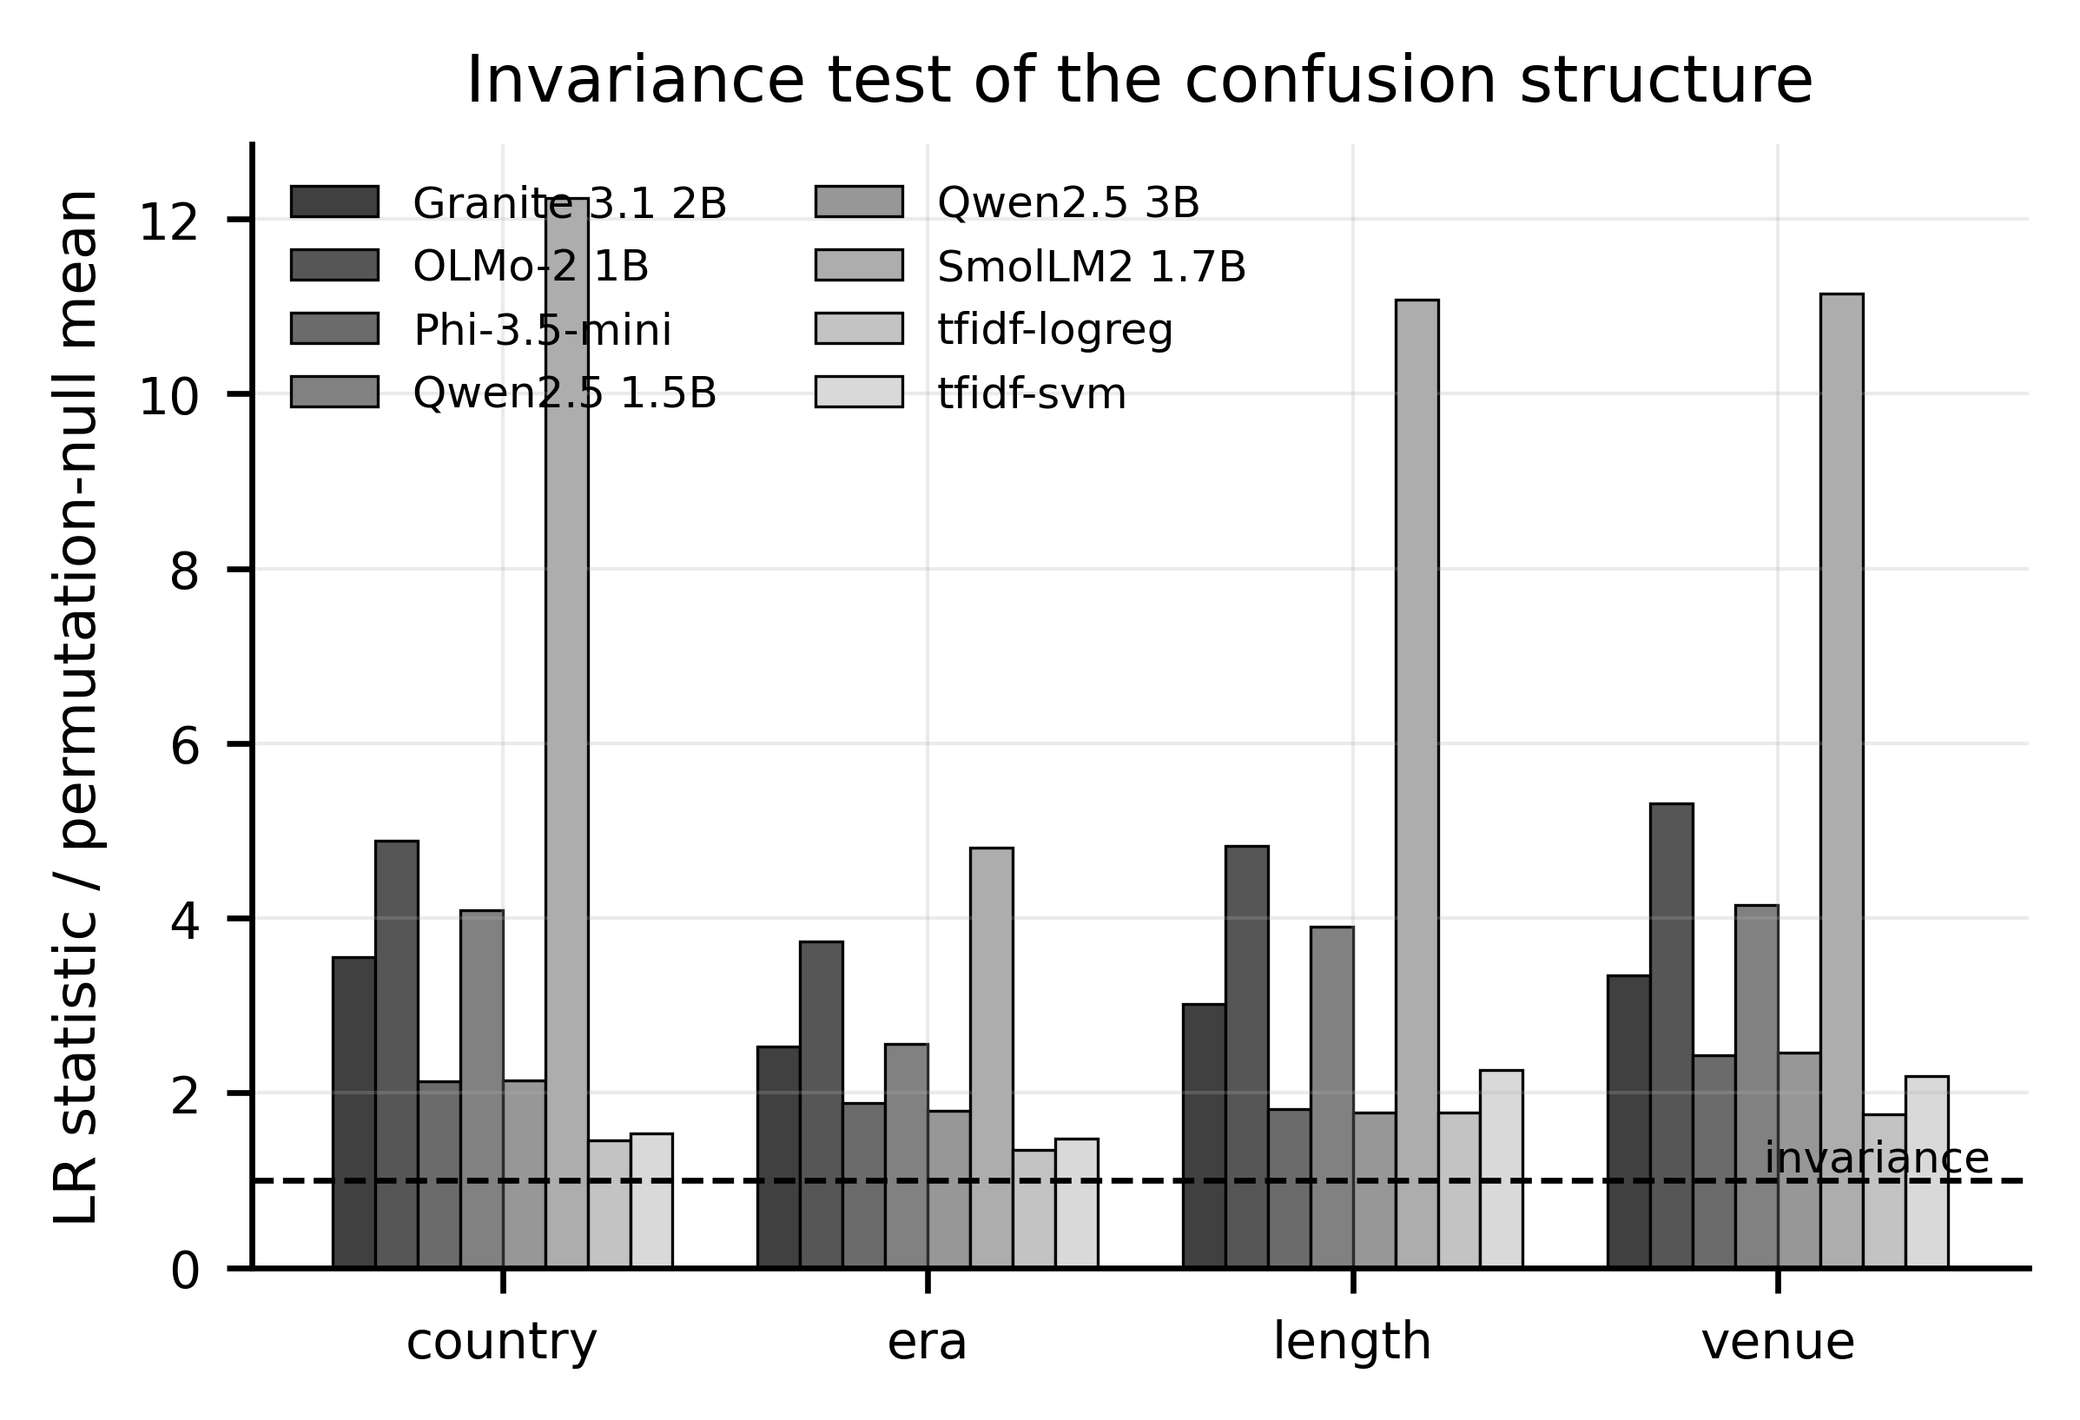
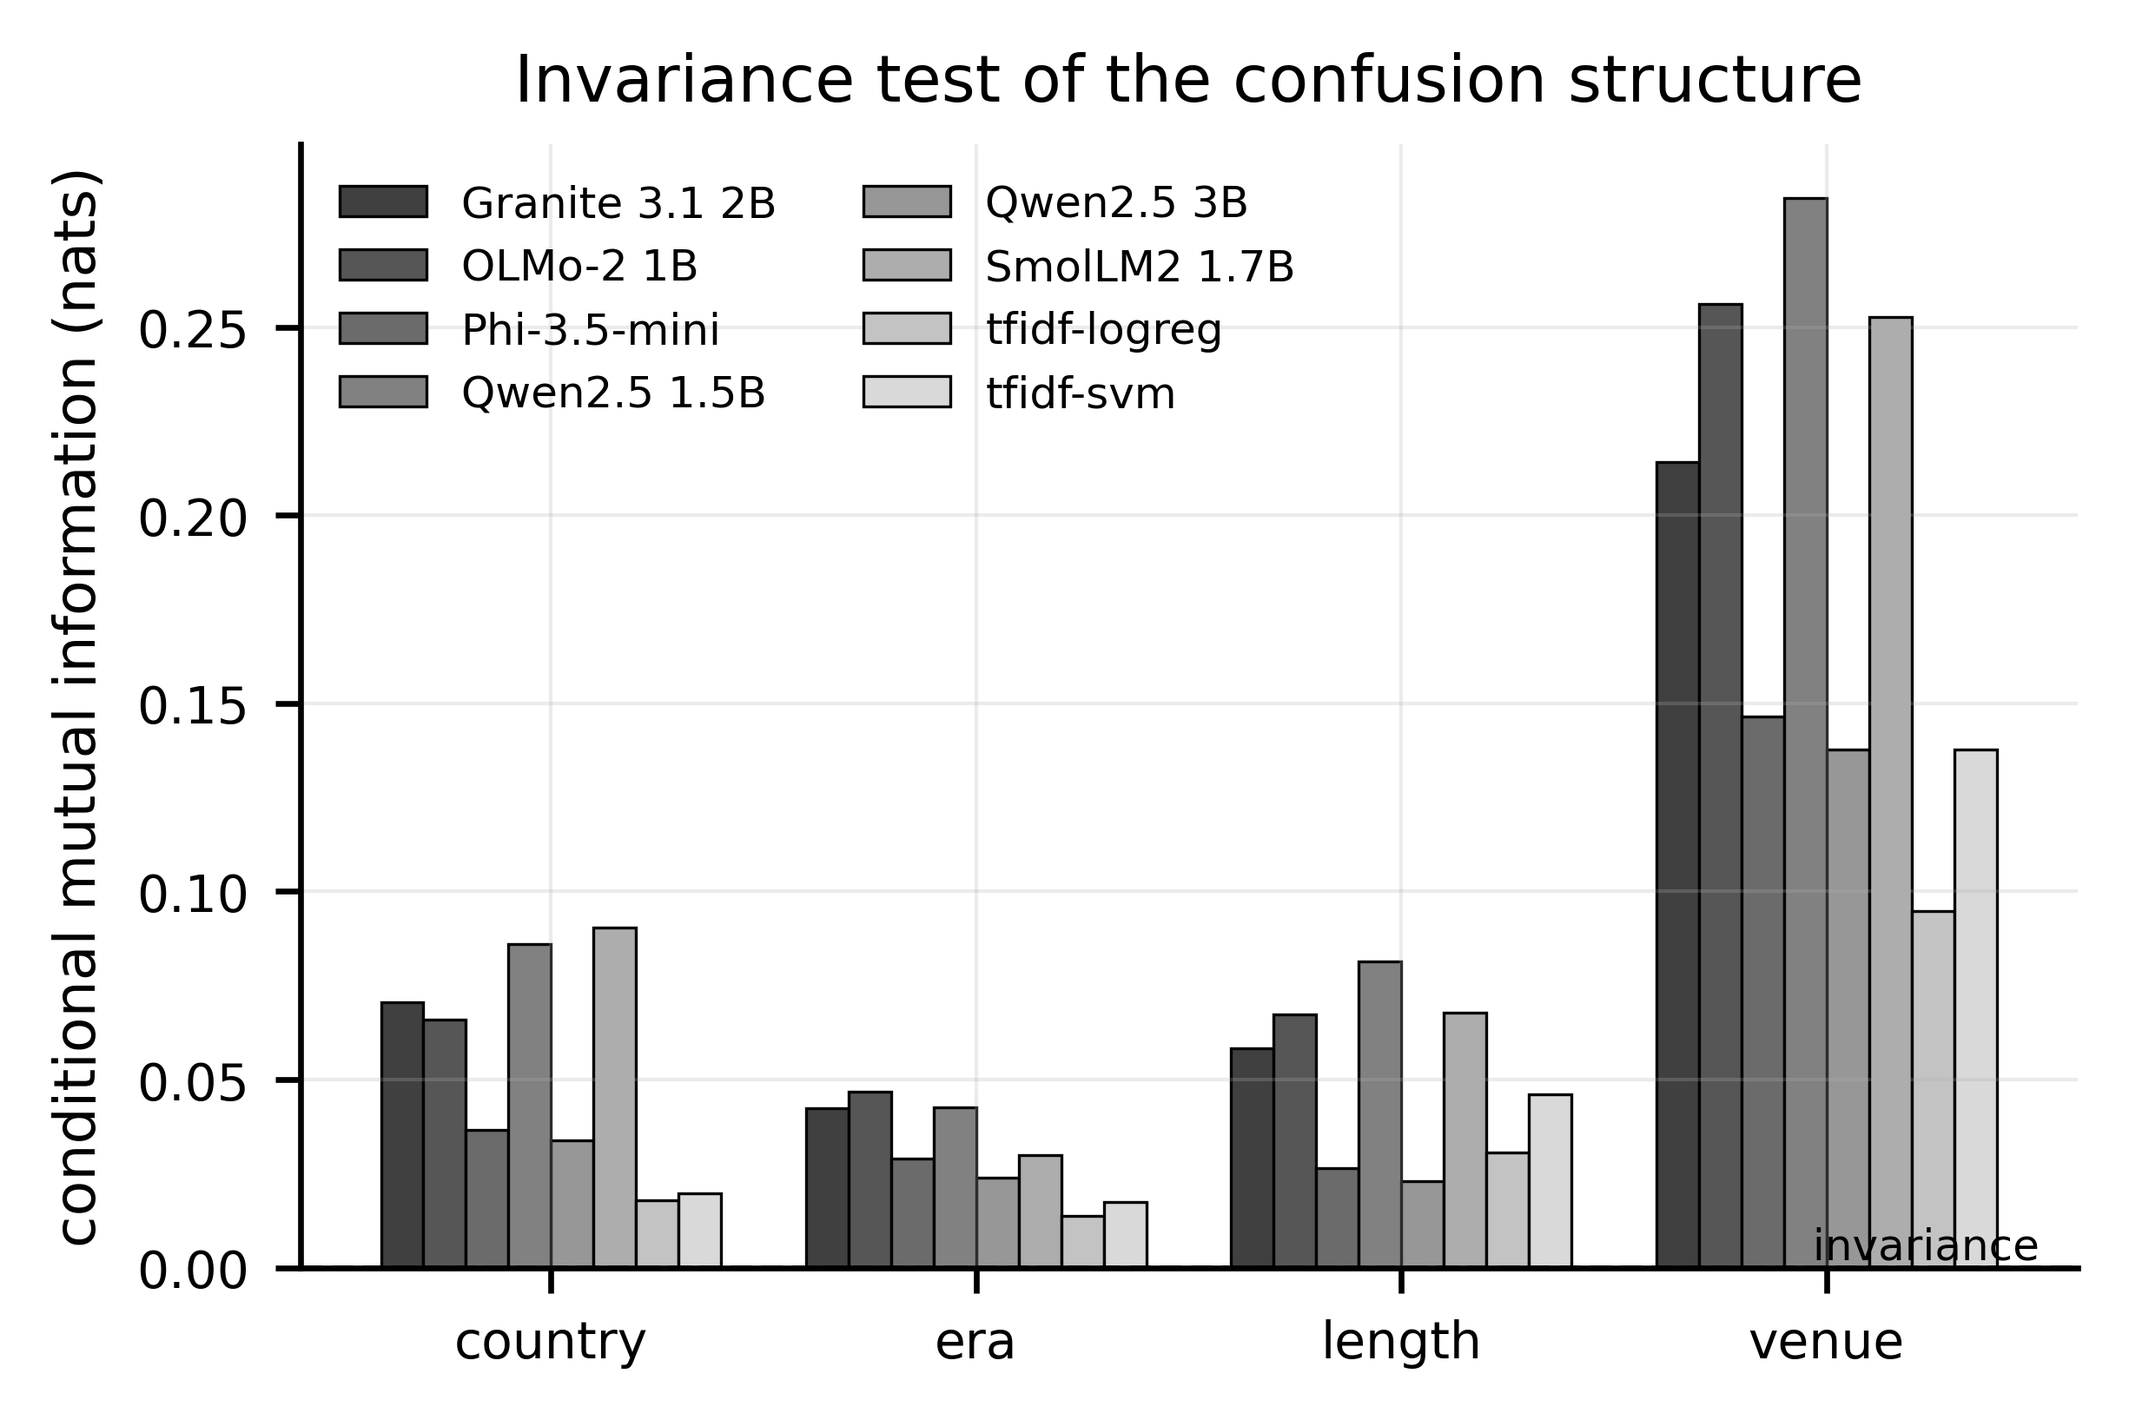
Bias-corrected conditional mutual information as the size of the invariance departure

diff --git a/code/verify_claims.py b/code/verify_claims.py
@@ -76,7 +76,12 @@ for r in lad:
 
 chi = collections.defaultdict(list)
 for r in lad:
-    chi[("sup" if r["model"] in SUP else "llm", r["grouping"])].append(float(r["stat_over_null"]))
+    chi[("sup" if r["model"] in SUP else "llm", r["grouping"])].append(float(r["cmi"]))
+cmi_m = collections.defaultdict(list)
+for r in lad:
+    cmi_m[r["model"]].append(float(r["cmi"]))
+wcr = list(csv.DictReader(open(os.path.join(RES, "within_corpus_invariance.csv"), encoding="utf-8")))
+from scipy import stats as _st
 GR = ("country", "venue", "length", "era")
 wc = json.load(open(os.path.join(RES, "metrics", "within_corpus_summary.json")))["by_family"]
 plc = json.load(open(os.path.join(RES, "metrics", "placebo_calibration.json")))
@@ -147,7 +152,6 @@ C = [
     ("sup nonuniform 1.00",              mean([1.0 * x for x in dsh["sup"]["n"]]), 1.00, .001),
     ("llm uniform .61",                  mean([1.0 * x for x in dsh["llm"]["u"]]), .61, .01),
     ("sup uniform .65",                  mean([1.0 * x for x in dsh["sup"]["u"]]), .65, .005),
-    ("llm median uniform OR 1.01",       float(np.median(dsh["llm"]["or"])), 1.01, .01),
     ("phi3.5 level naive .297",          mean(lvl[("LEVEL", "phi3.5-mini")]["n"]), .297, .002),
     ("phi3.5 level group .146",          mean(lvl[("LEVEL", "phi3.5-mini")]["g"]), .146, .002),
     ("logreg level naive .066",          mean(lvl[("LEVEL", "tfidf-logreg")]["n"]), .066, .001),
@@ -193,12 +197,6 @@ C = [
     ("dif n min 1500",                   min(float(r["n"]) for r in dif), 1500, 0),
     ("dif n max 5250",                   max(float(r["n"]) for r in dif), 5250, 0),
     ("perm floor p .0005 all 80 tests",  max(float(r["p"]) for r in lad), .0005, 1e-9),
-    ("llm stat/null min 2.9",            min(mean(chi[("llm", g)]) for g in GR), 2.9, .05),
-    ("llm stat/null max 4.8",            max(mean(chi[("llm", g)]) for g in GR), 4.8, .05),
-    ("sup stat/null min 1.4",            min(mean(chi[("sup", g)]) for g in GR), 1.4, .05),
-    ("sup stat/null max 2.0",            max(mean(chi[("sup", g)]) for g in GR), 2.0, .05),
-    ("llm length stat/null 4.4",         mean(chi[("llm", "length")]), 4.4, .05),
-    ("llm era stat/null 2.9",            mean(chi[("llm", "era")]), 2.9, .05),
     ("placebo asymptotic corpus 65%",    plc["single_corpus"]["reject_asymptotic_chi2"] * 100, 65, .5),
     ("placebo asymptotic pooled 71%",    plc["pooled_corpora"]["reject_asymptotic_chi2"] * 100, 71, .5),
     ("placebo perm corpus 4.5%",         plc["single_corpus"]["reject_permutation"] * 100, 4.5, .05),
@@ -208,18 +206,11 @@ C = [
     ("within llm 36 tests",              wc["llm"]["combined_tests"], 36, 0),
     ("within llm 35 rejected",           wc["llm"]["combined_rejected_share"] * 36, 35, .01),
     ("within llm max p .056",            wc["llm"]["combined_max_p"], .056, .001),
-    ("within llm ratio min 1.05",        wc["llm"]["combined_stat_over_null_range"][0], 1.05, .005),
-    ("within llm ratio max 2.33",        wc["llm"]["combined_stat_over_null_range"][1], 2.33, .005),
-    ("within llm ratio mean 1.29",       wc["llm"]["combined_stat_over_null_mean"], 1.29, .005),
     ("within sup 2 of 4 rejected",       wc["sup"]["combined_rejected_share"] * 4, 2, .01),
-    ("within sup ratio min 1.03",        wc["sup"]["combined_stat_over_null_range"][0], 1.03, .005),
-    ("within sup ratio max 1.13",        wc["sup"]["combined_stat_over_null_range"][1], 1.13, .005),
     ("pooled-sup acc logreg .651",       mean([r["accuracy"] for r in ps_acc if r["model"] == "tfidf-logreg-pooled"]), .651, .001),
     ("pooled-sup acc svm .650",          mean([r["accuracy"] for r in ps_acc if r["model"] == "tfidf-svm-pooled"]), .650, .001),
     ("pooled-sup 8 tests",               len(ps_lad), 8, 0),
     ("pooled-sup all p .0005",           max(float(r["p"]) for r in ps_lad), .0005, 1e-9),
-    ("pooled-sup ratio min 1.4",         min(float(r["stat_over_null"]) for r in ps_lad), 1.4, .05),
-    ("pooled-sup ratio max 2.0",         max(float(r["stat_over_null"]) for r in ps_lad), 2.0, .05),
     ("pooled-sup nonuniform 92%",        100 * np.mean([float(r["nonuniform_p"]) < .05 for r in ps_dif]), 92, .5),
     ("pooled-sup within 4/4",            ps_wc["combined_rejected_share"] * 4, 4, .01),
     ("pooled-sup within max p .045",     ps_wc["combined_max_p"], .045, .001),
@@ -230,11 +221,45 @@ C = [
     ("llm topic gap min .07",            min(mean(tgap[("llm", g)]) for g in GR), .07, .005),
     ("llm topic gap max .23",            max(mean(tgap[("llm", g)]) for g in GR), .23, .005),
     ("sup topic gap > llm every grouping", float(all(mean(tgap[("sup", g)]) > mean(tgap[("llm", g)]) for g in GR)), 1, 0),
-    ("pooled minus subgroup excess sup ~.05", iv["pooled_excess_error_supervised"]["point"] - iv["subgroup_excess_error_supervised"]["point"], .05, .005),
     ("five-shot lowers 5 of 6 LLMs",     float(sum(mean(by_mc[(m, "fs")]) < mean(by_mc[(m, "zs")]) for m in LLM)), 5, 0),
     ("smollm zs .074",                   mean(by_mc[("smollm2-1.7b", "zs")]), .074, .001),
     ("smollm fs .101",                   mean(by_mc[("smollm2-1.7b", "fs")]), .101, .001),
     ("phi most accurate LLM (zs)",       float(max(LLM, key=lambda m: mean(by_mc[(m, "zs")])) == "phi3.5-mini"), 1, 0),
+    ("llm I min .036",                   min(mean(chi[("llm", g)]) for g in GR), .036, .0005),
+    ("llm I max .215",                   max(mean(chi[("llm", g)]) for g in GR), .215, .0005),
+    ("sup I min .016",                   min(mean(chi[("sup", g)]) for g in GR), .016, .0005),
+    ("sup I max .116",                   max(mean(chi[("sup", g)]) for g in GR), .116, .0005),
+    ("llm length I .054",                mean(chi[("llm", "length")]), .054, .0005),
+    ("llm era I .036",                   mean(chi[("llm", "era")]), .036, .0005),
+    ("sup length I .038",                mean(chi[("sup", "length")]), .038, .0005),
+    ("sup era I .016",                   mean(chi[("sup", "era")]), .016, .0005),
+    ("phi I .060",                       mean(cmi_m["phi3.5-mini"]), .060, .0005),
+    ("qwen3b I .055",                    mean(cmi_m["qwen2.5-3b"]), .055, .0005),
+    ("logreg I .039",                    mean(cmi_m["tfidf-logreg"]), .039, .0005),
+    ("svm I .055",                       mean(cmi_m["tfidf-svm"]), .055, .0005),
+    ("sup I < llm every grouping",       float(all(mean(chi[("sup", g)]) < mean(chi[("llm", g)]) for g in GR)), 1, 0),
+    ("within llm length I .016",         wc["llm"]["combined_cmi_by_grouping"]["length"], .016, .0005),
+    ("within llm era I .012",            wc["llm"]["combined_cmi_by_grouping"]["era"], .012, .0005),
+    ("within sup length I .014",         wc["sup"]["combined_cmi_by_grouping"]["length"], .014, .0005),
+    ("within sup era I .003",            wc["sup"]["combined_cmi_by_grouping"]["era"], .003, .0005),
+    ("within/pooled llm length ~1/3",    wc["llm"]["combined_cmi_by_grouping"]["length"] / mean(chi[("llm", "length")]), .33, .05),
+    ("within/pooled llm era ~1/3",       wc["llm"]["combined_cmi_by_grouping"]["era"] / mean(chi[("llm", "era")]), .33, .05),
+    ("within llm DIF tests 252",         len([r for r in wcr if r["model"] not in SUP]), 252, 0),
+    ("within llm nonuniform 10%",        100 * np.mean([float(r["nonuniform_p"]) < .05 for r in wcr if r["model"] not in SUP]), 10, .5),
+    ("within llm uniform 12%",           100 * np.mean([float(r["uniform_p"]) < .05 for r in wcr if r["model"] not in SUP]), 12, .5),
+    ("placebo corpus splits 420",        plc["single_corpus"]["n_splits"], 420, 0),
+    ("placebo pooled splits 100",        plc["pooled_corpora"]["n_splits"], 100, 0),
+    ("placebo perm draws 499",           plc["n_perm"], 499, 0),
+    ("placebo 8/100 CI lo 3.5%",         100 * _st.beta.ppf(.025, 8, 93), 3.5, .05),
+    ("placebo 8/100 CI hi 15%",          100 * _st.beta.ppf(.975, 9, 92), 15, .5),
+    ("abs uniform OR llm 1.43",          float(np.median([np.exp(abs(np.log(float(r["uniform_or"])))) for r in dif if r["model"] not in SUP and r["uniform_or"]])), 1.43, .005),
+    ("abs uniform OR sup 1.29",          float(np.median([np.exp(abs(np.log(float(r["uniform_or"])))) for r in dif if r["model"] in SUP and r["uniform_or"]])), 1.29, .005),
+    ("venue mean pairwise acc diff .070", float(np.mean([np.mean([abs(a - b) for a, b in itertools.combinations(v.values(), 2)]) for (m, c, g), v in cells.items() if g == "venue"])), .070, .0005),
+    ("venue pairwise ~2x country",       float(np.mean([np.mean([abs(a - b) for a, b in itertools.combinations(v.values(), 2)]) for (m, c, g), v in cells.items() if g == "venue"])) / mean(gap["country"]), 2.2, .15),
+    ("pooled-sup subgroup excess .137",  np.mean([float(r["tv_group_correction"]) - float(r["tv_naive"]) for r in ps_prev]), .137, .001),
+    ("pooled-sup I min .017",            min(np.mean([float(r["cmi"]) for r in ps_lad if r["grouping"] == g]) for g in GR), .017, .0005),
+    ("pooled-sup I max .098",            max(np.mean([float(r["cmi"]) for r in ps_lad if r["grouping"] == g]) for g in GR), .098, .0005),
+    ("pooled-sup recall gap > llm every grouping", float(all(np.mean([float(r["gap"]) for r in csv.DictReader(open(os.path.join(PS, "per_topic_recall_gaps.csv"))) if r["grouping"] == g]) > mean(tgap[("llm", g)]) for g in GR)), 1, 0),
 ]
 
 bad = 0

diff --git a/code/05_tables.py b/code/05_tables.py
@@ -223,18 +223,22 @@ def table4_dif():
         non = _mean([1.0 if float(r["nonuniform_p"]) < .05 else 0.0 for r in d])
         rej = _mean([1.0 if float(r["p"]) < .05 else 0.0 for r in l])
         body.append(f"{GROUP_LABEL[g]} & {_mean(gaps):.3f} & {uni:.2f} & {non:.2f} & "
-                    f"{_mean([r['stat_over_null'] for r in l]):.2f} & {rej:.2f} \\\\")
+                    f"{_mean([r['cmi'] for r in l]):.3f} & {rej:.2f} \\\\")
     tex = r"""\begin{table}[htbp]
 \centering
 \caption{Differential item functioning and invariance of the response structure, by
-grouping variable, pooled over models and prompt conditions. The accuracy gap is the
-largest between-subgroup difference in raw agreement. The two DIF columns give the
+grouping variable. The two DIF columns give the
 share of pairwise likelihood-ratio tests significant at $p<.05$ after stratifying on
 the true topic. The invariance test compares one confusion matrix for all subgroups
-with one per subgroup; LR/null is its likelihood-ratio statistic divided by the mean of
-its permutation distribution (group labels shuffled within each true topic, 1,999
-draws), so 1 means no departure, and Rejected is the share of tests with permutation
-$p<.05$. Non-uniform DIF is near-universal while uniform DIF is not: the instrument is
+with one per subgroup; its $p$-value comes from a permutation distribution (group labels
+shuffled within each true topic, 1,999 draws), and Rejected is the share of tests with
+$p<.05$. $\hat{I}$ is the size of the departure: the excess of the likelihood-ratio
+statistic over its permutation mean, divided by twice the number of items, a
+bias-corrected estimate of the conditional mutual information between subgroup and
+assigned code given the true topic (nats; 0 means none). The accuracy gap is the largest
+between-subgroup difference in raw agreement within each coder and prompt condition (for
+venue, the range over five subgroups). All columns pool both coder families and every
+prompt condition. Non-uniform DIF is near-universal while uniform DIF is not: the instrument is
 not simply less accurate in one subgroup, it behaves differently.}
 \label{tab:dif}
 \small
@@ -242,7 +246,7 @@ not simply less accurate in one subgroup, it behaves differently.}
 \toprule
  & Accuracy & \multicolumn{2}{c}{DIF significant} & \multicolumn{2}{c}{Invariance test} \\
 \cmidrule(lr){3-4}\cmidrule(lr){5-6}
-Grouping & gap & Uniform & Non-uniform & LR/null & Rejected \\
+Grouping & gap & Uniform & Non-uniform & $\hat{I}$ & Rejected \\
 \midrule
 """ + "\n".join(body) + r"""
 \bottomrule

diff --git a/code/03_invariance.py b/code/03_invariance.py
@@ -226,8 +226,10 @@ def invariance_ladder(y, pred, group, n_perm=N_PERM, rng=None, keep_null=False):
     within each true topic, which holds the group-by-topic composition fixed and
     realises exactly the null that the coder's response profile does not depend on
     the group. The asymptotic chi-square reference is also reported, but it is not
-    used for inference: with 21 x 21 sparse confusion tables it rejects about 60%
-    of random splits, while the permutation test holds its nominal level.
+    used for inference: with 21 x 21 sparse confusion tables it rejected 65% of random
+    half-splits of a single corpus and 71% of pooled-corpus splits
+    (results/metrics/placebo_calibration.json), while the permutation test stayed
+    close to its nominal level.
     """
     rng = PERM_RNG if rng is None else rng
     gvals, gi = np.unique(group, return_inverse=True)
@@ -253,6 +255,11 @@ def invariance_ladder(y, pred, group, n_perm=N_PERM, rng=None, keep_null=False):
             "p_asymptotic": float(stats.chi2.sf(stat, df)),
             "null_mean": float(null.mean()),
             "stat_over_null": float(stat / null.mean()),
+            # bias-corrected conditional mutual information I(code; group | topic), nats:
+            # the excess of the statistic over its null mean per item, halved. Unlike the
+            # ratio, it does not depend on how many cells the tables have.
+            "n": int(len(y)),
+            "cmi": float((stat - null.mean()) / (2 * len(y))),
             "scaled_chi2_df": float(stat / df),
             **({"_null": null} if keep_null else {})}
 

diff --git a/code/10_within_corpus.py b/code/10_within_corpus.py
@@ -67,11 +67,13 @@ def main():
     comb = {}
     for r in rows:
         k = (r["model"], r["condition"], r["grouping"])
-        c = comb.setdefault(k, {"stat": 0.0, "null": 0.0, "k": 0})
+        c = comb.setdefault(k, {"stat": 0.0, "null": 0.0, "k": 0, "n": 0})
         c["stat"] += r["lr_chi2"]; c["null"] = c["null"] + r.pop("_null"); c["k"] += 1
+        c["n"] += r["n"]
     for c in comb.values():
         c["p"] = float((1 + (c["null"] >= c["stat"]).sum()) / (len(c["null"]) + 1))
         c["ratio"] = float(c["stat"] / c["null"].mean())
+        c["cmi"] = float((c["stat"] - c["null"].mean()) / (2 * c["n"]))
 
     out = os.path.join(inv.OUT, "within_corpus_invariance.csv")
     import csv
@@ -91,6 +93,8 @@ def main():
             "combined_stat_over_null_range": [min(v["ratio"] for v in cs.values()),
                                               max(v["ratio"] for v in cs.values())],
             "combined_stat_over_null_mean": float(np.mean([v["ratio"] for v in cs.values()])),
+            "combined_cmi_by_grouping": {g: float(np.mean([v["cmi"] for k, v in cs.items() if k[2] == g]))
+                                         for g in sorted({k[2] for k in cs})},
             "corpus_tests": len(rs),
             "corpus_rejected_share": float(np.mean([r["p"] < .05 for r in rs])),
             "corpus_nonuniform_share": float(np.mean([r["nonuniform_p"] < .05 for r in rs])),

diff --git a/code/04_figures.py b/code/04_figures.py
@@ -201,16 +201,16 @@ def fig5_ladder(ladder):
     models = sorted({r["model"] for r in ladder})
     x = np.arange(len(groupings)); w = 0.8 / max(len(models), 1)
     for i, m in enumerate(models):
-        vals = [np.mean([r["stat_over_null"] for r in ladder
+        vals = [np.mean([r["cmi"] for r in ladder
                          if r["grouping"] == g and r["model"] == m] or [np.nan])
                 for g in groupings]
         ax.bar(x + i * w - 0.4 + w / 2, vals, w, label=MODEL_LABEL.get(m, m),
                color=str(0.25 + 0.6 * i / max(len(models) - 1, 1)),
                edgecolor="black", linewidth=0.4)
-    ax.axhline(1.0, color="black", lw=0.8, ls="--")
-    ax.text(len(groupings) - 0.5, 1.0, " invariance", fontsize=6, va="bottom", ha="right")
+    ax.axhline(0.0, color="black", lw=0.8, ls="--")
+    ax.text(len(groupings) - 0.5, 0.0, " invariance", fontsize=6, va="bottom", ha="right")
     ax.set_xticks(x); ax.set_xticklabels(groupings)
-    ax.set_ylabel("LR statistic / permutation-null mean")
+    ax.set_ylabel("conditional mutual information (nats)")
     ax.set_title("Invariance test of the confusion structure")
     ax.legend(frameon=False, ncol=2, fontsize=6)
     fig.savefig(os.path.join(FIG, "fig5_invariance_ladder.png")); plt.close(fig)
